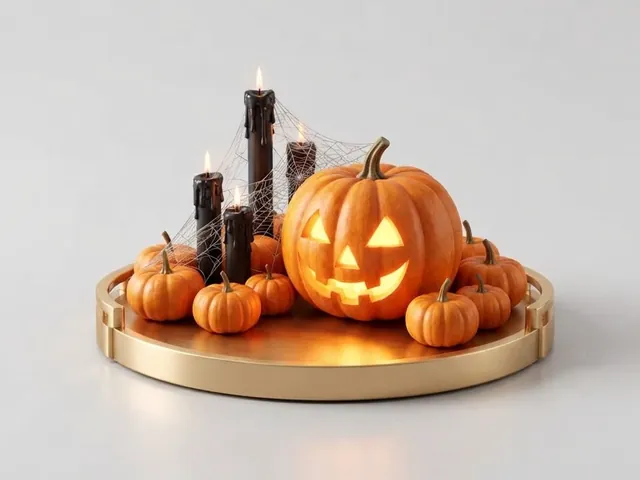
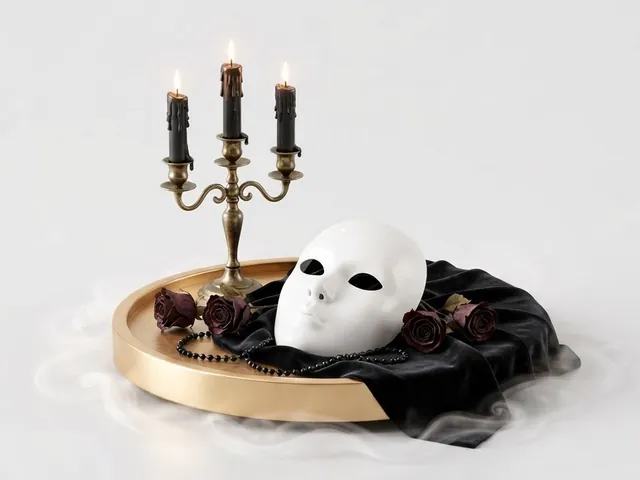
Корпоратив: 3D-иконка «Хоррор» (маска, канделябр, туман) вместо тыквы; app v21, картинки тем ?v=11

diff --git a/korporativ/js/app.js b/korporativ/js/app.js
@@ -1,6 +1,6 @@
 (function () {
   var T = window.THEMES;
-  var V = '?v=10';
+  var V = '?v=11';
   var $ = function (s, r) { return (r || document).querySelector(s); };
   var $$ = function (s, r) { return Array.prototype.slice.call((r || document).querySelectorAll(s)); };
   var esc = function (s) { return String(s).replace(/[&<>"]/g, function (m) { return { '&': '&amp;', '<': '&lt;', '>': '&gt;', '"': '&quot;' }[m]; }); };

diff --git a/korporativ/index.html b/korporativ/index.html
@@ -1288,6 +1288,6 @@
 <script src="js/fx.js?v=3"></script>
 <script src="js/party.js?v=1"></script>
 <script src="js/tnav.js?v=2"></script>
-<script src="js/app.js?v=20"></script>
+<script src="js/app.js?v=21"></script>
 </body>
 </html>
